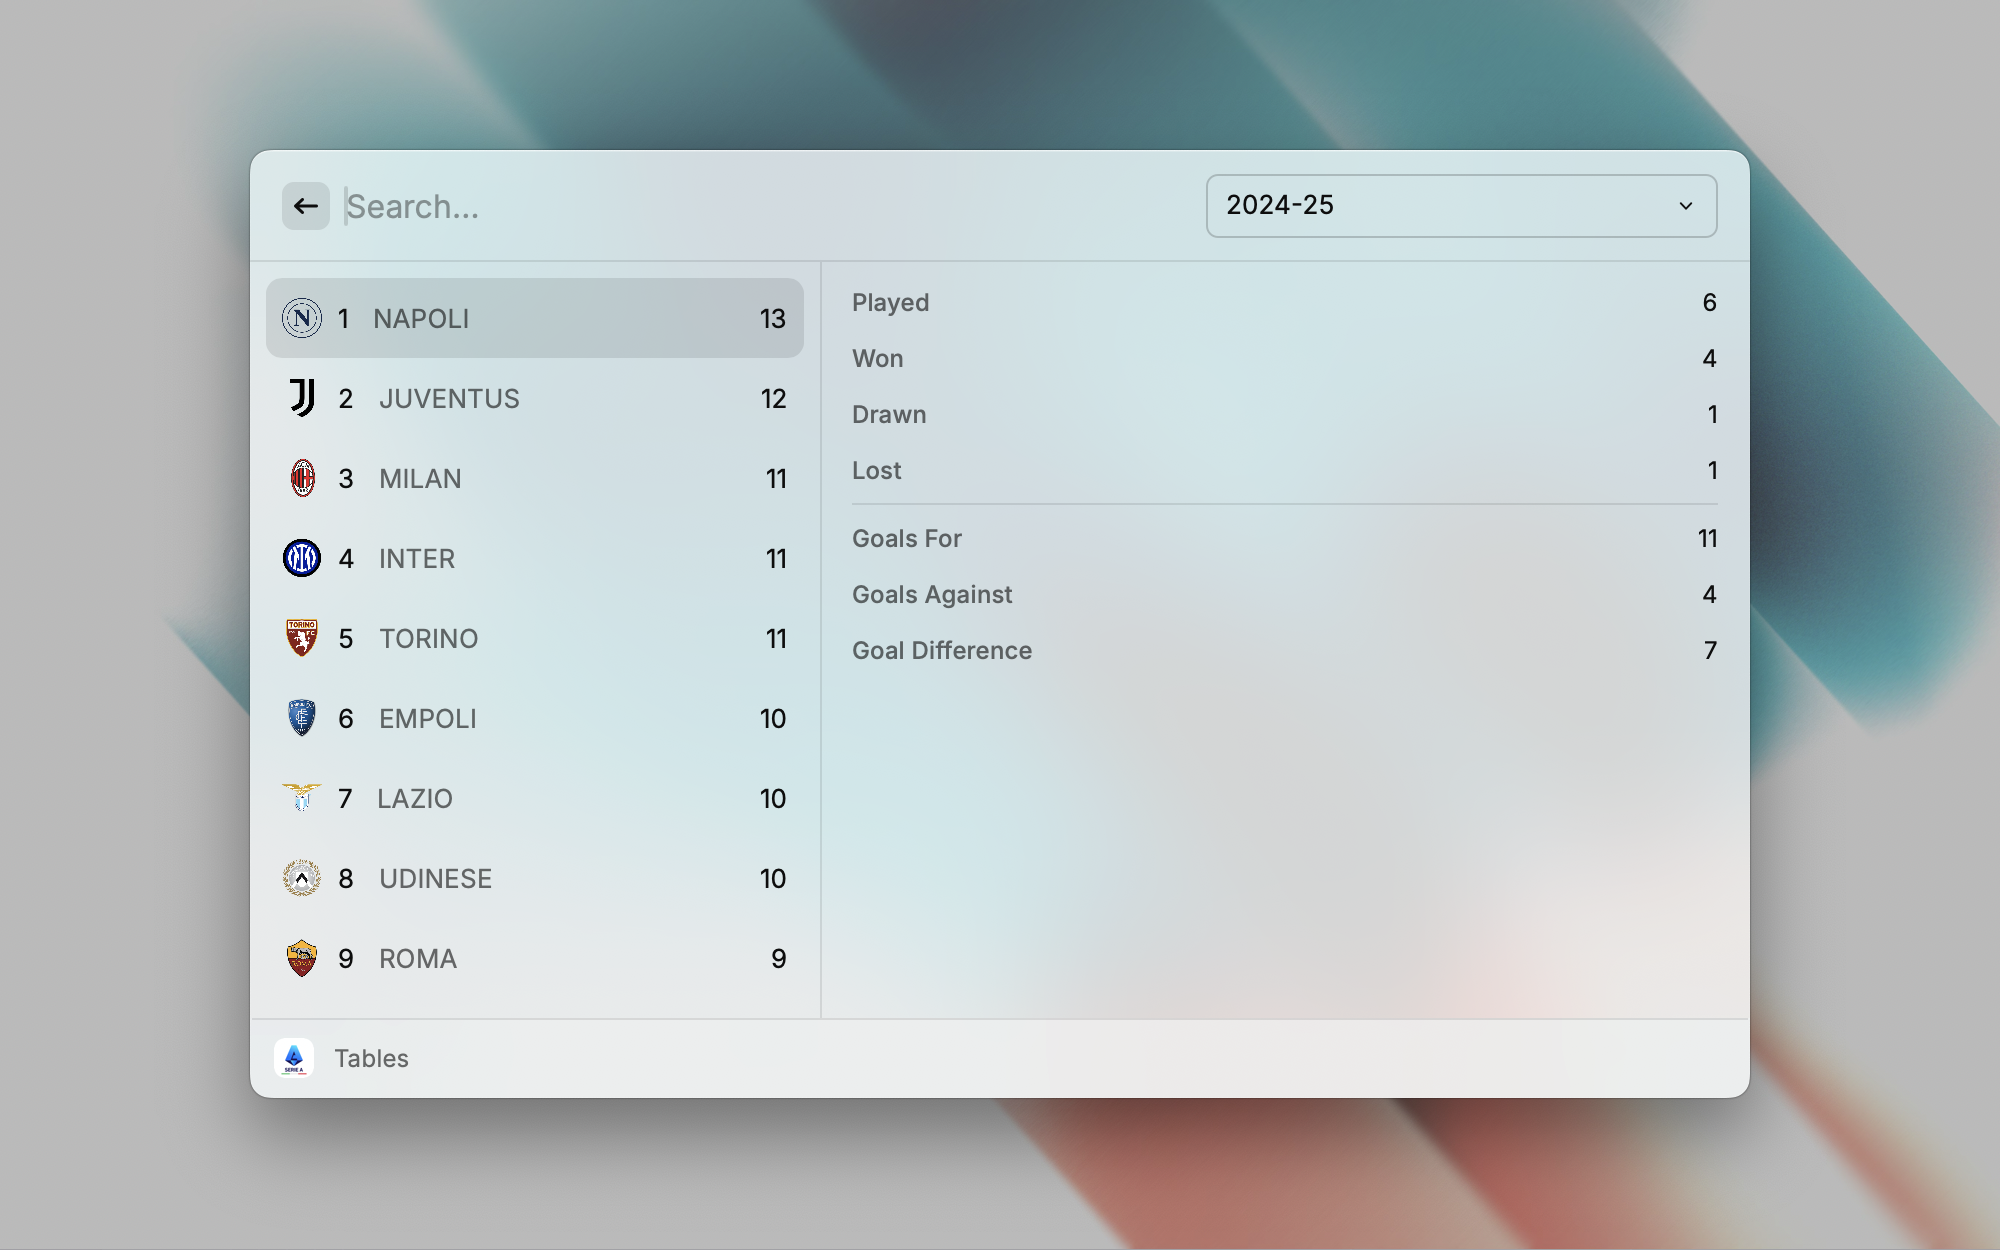
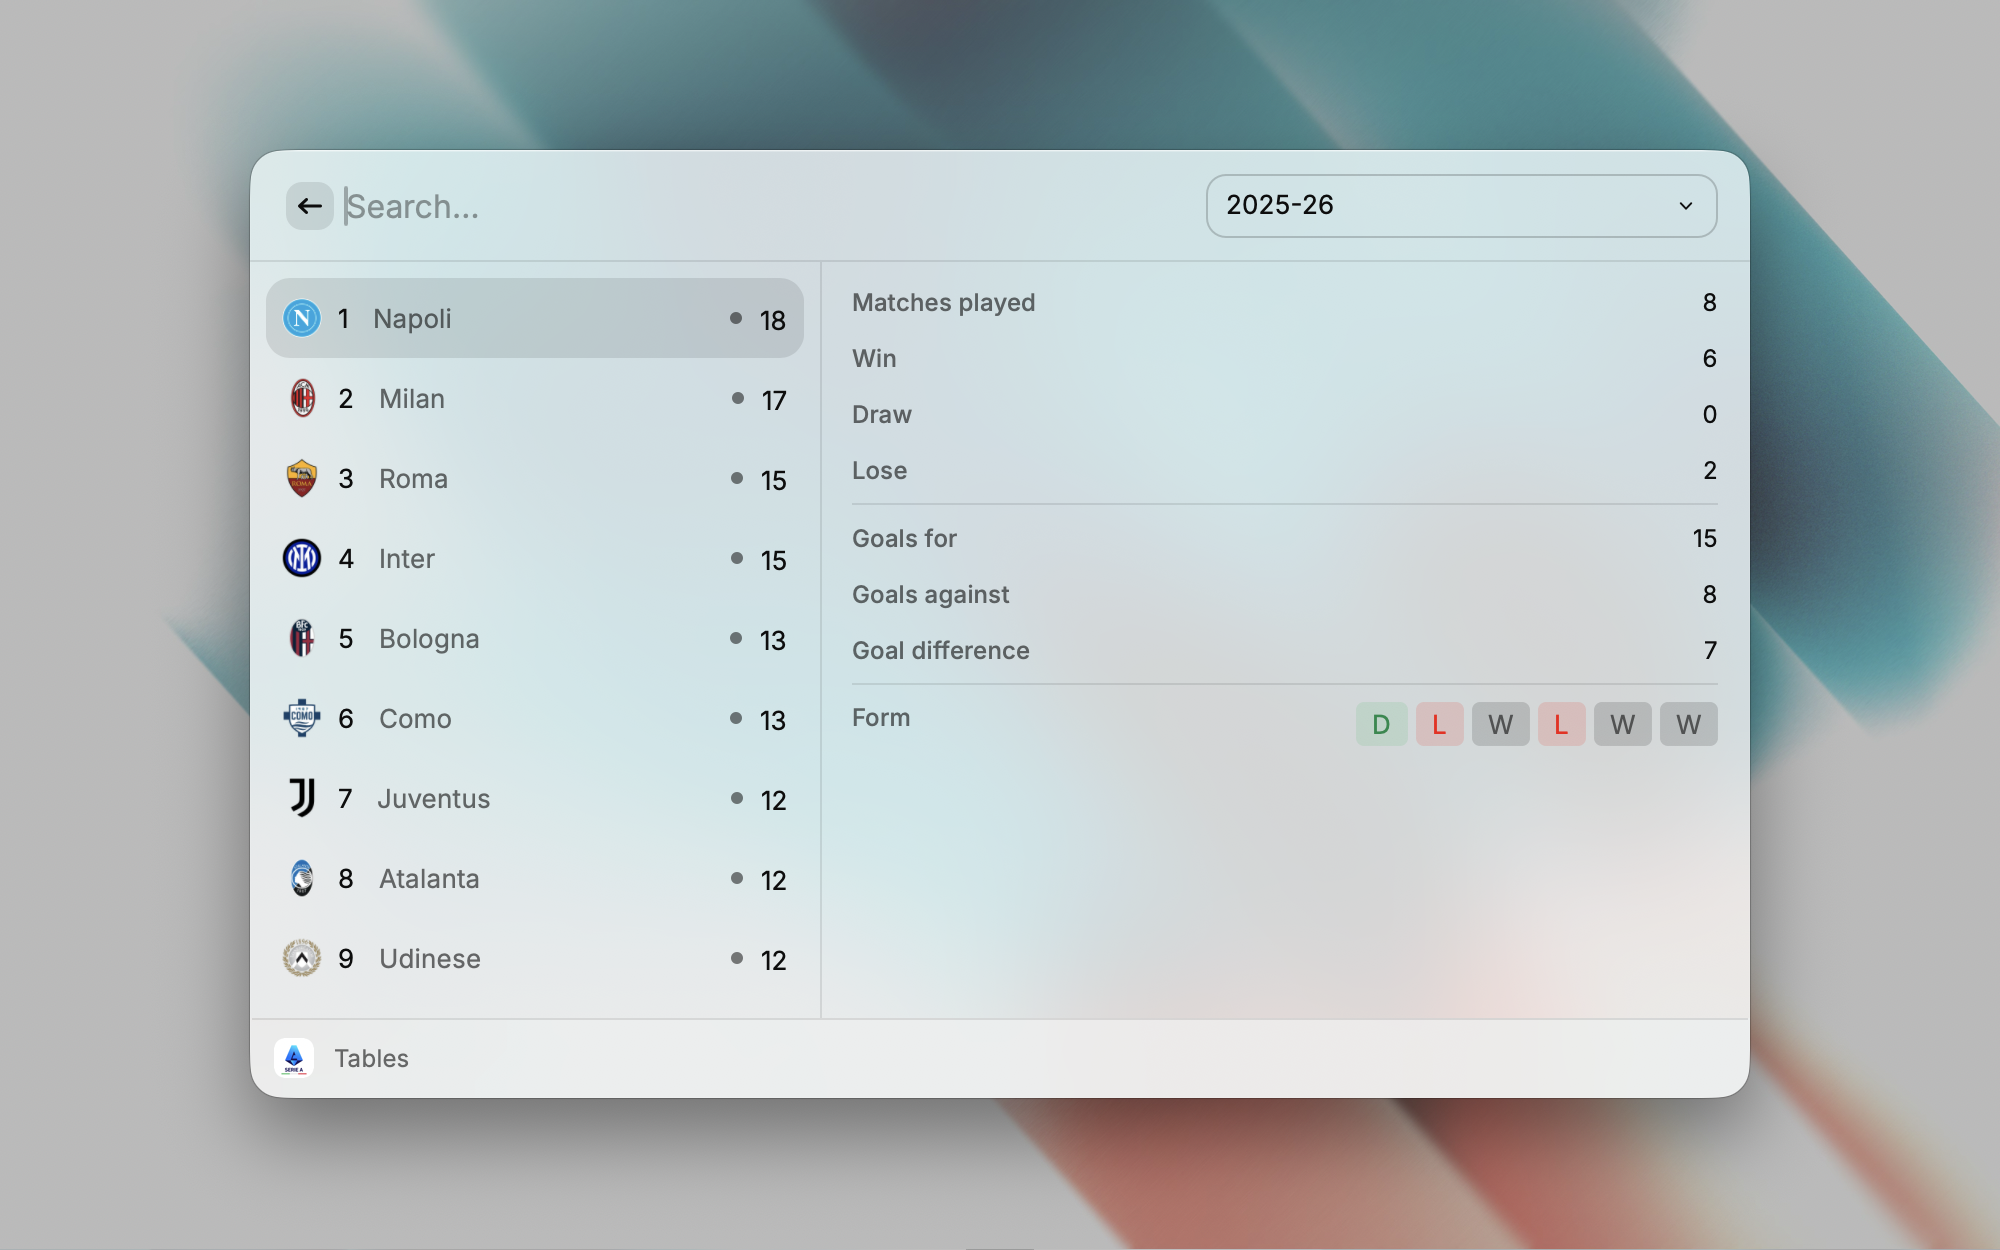
chore: update changelog, metadata

diff --git a/CHANGELOG.md b/CHANGELOG.md
@@ -1,13 +1,21 @@
 # Lega Serie A Changelog
 
+## API Modernization - 2025-10-26
+
+- Migrated standings data fetching to API v3.
+- Maintained support for the older standings API for historical data spanning the 2022-23 season and backward, ensuring no disruption for older data retrieval.
+
 ## [Standings Boost] - 2024-10-10
+
 - Updated standings to always display detailed statistics, including goals for/against, goal difference, and points.
 - Enhanced code maintainability and efficiency by utilizing the `usePromise` hook for asynchronous operations.
 
 ## [Tournament Tracker] - 2023-02-21
+
 - Added detailed club profiles, including rosters, recent matches, and club history.
 - Enhanced fixtures and results page with live match status and broadcaster information.
 - Introduced new sections for Coppa Italia and International Competitions, allowing users to follow Italian teams in all major tournaments.
 
 ## [Initial Release] - 2023-02-10
+
 - Launched with core features for Serie A standings, match results, and club information.
